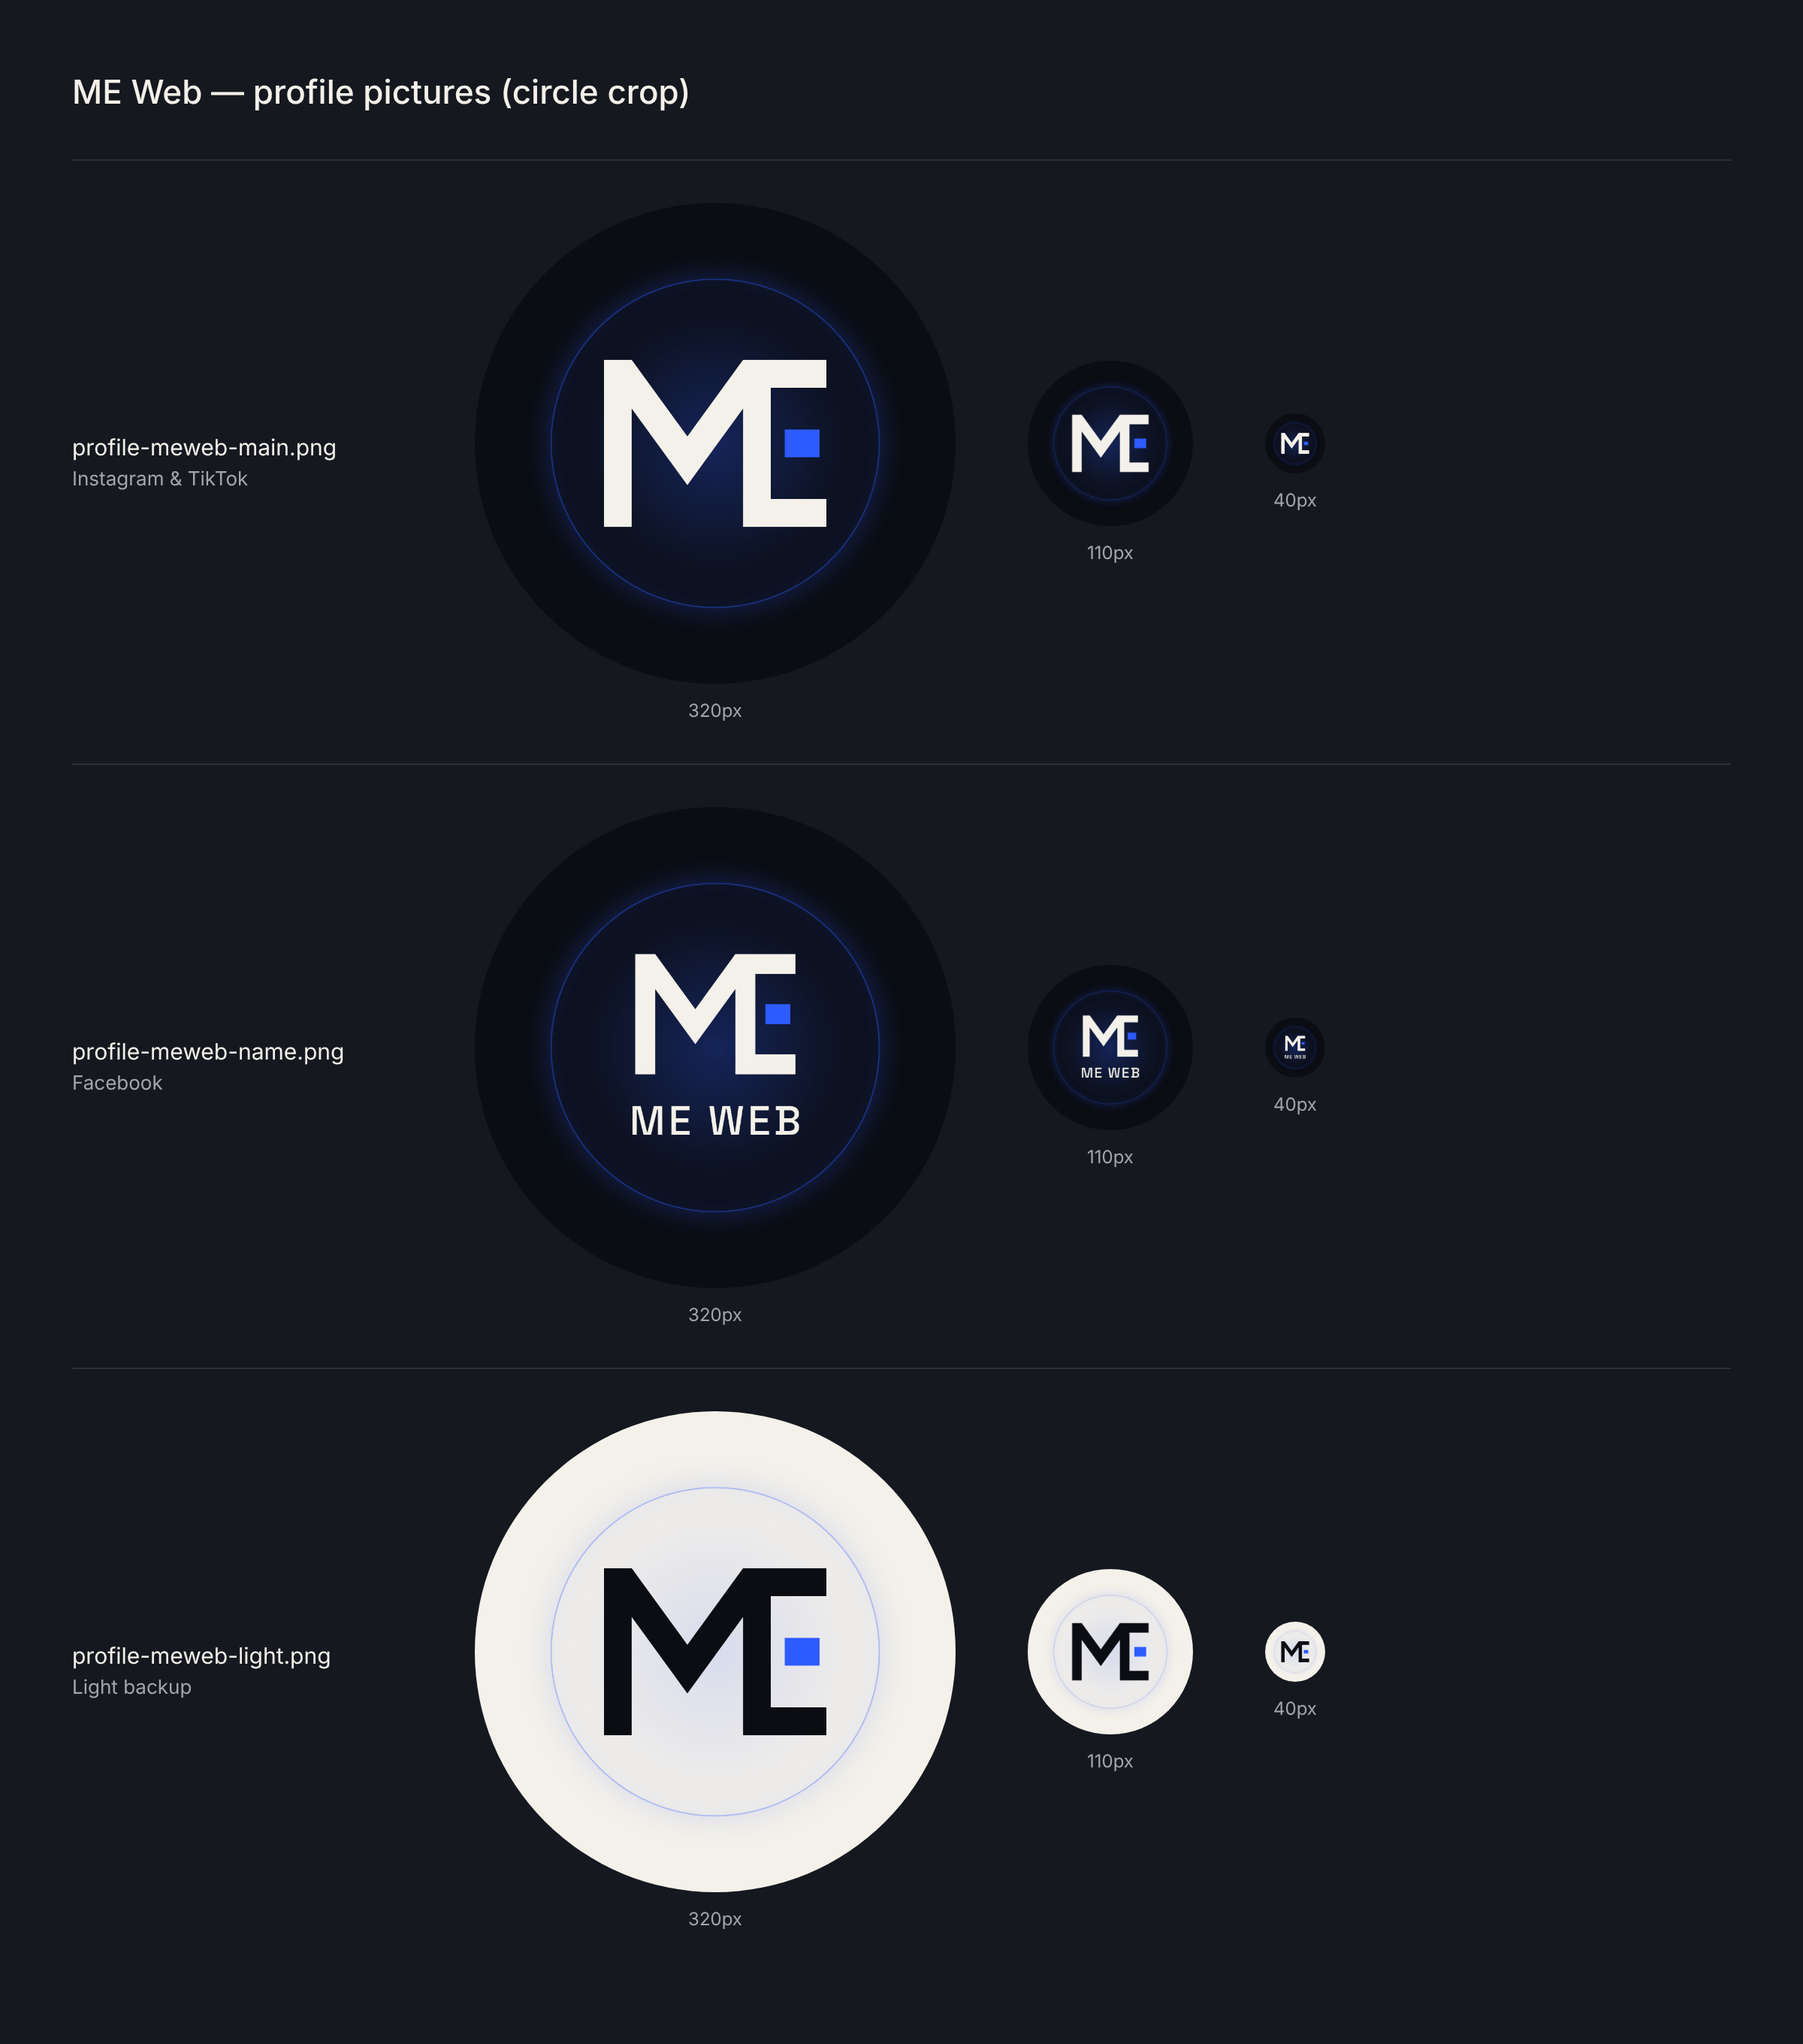
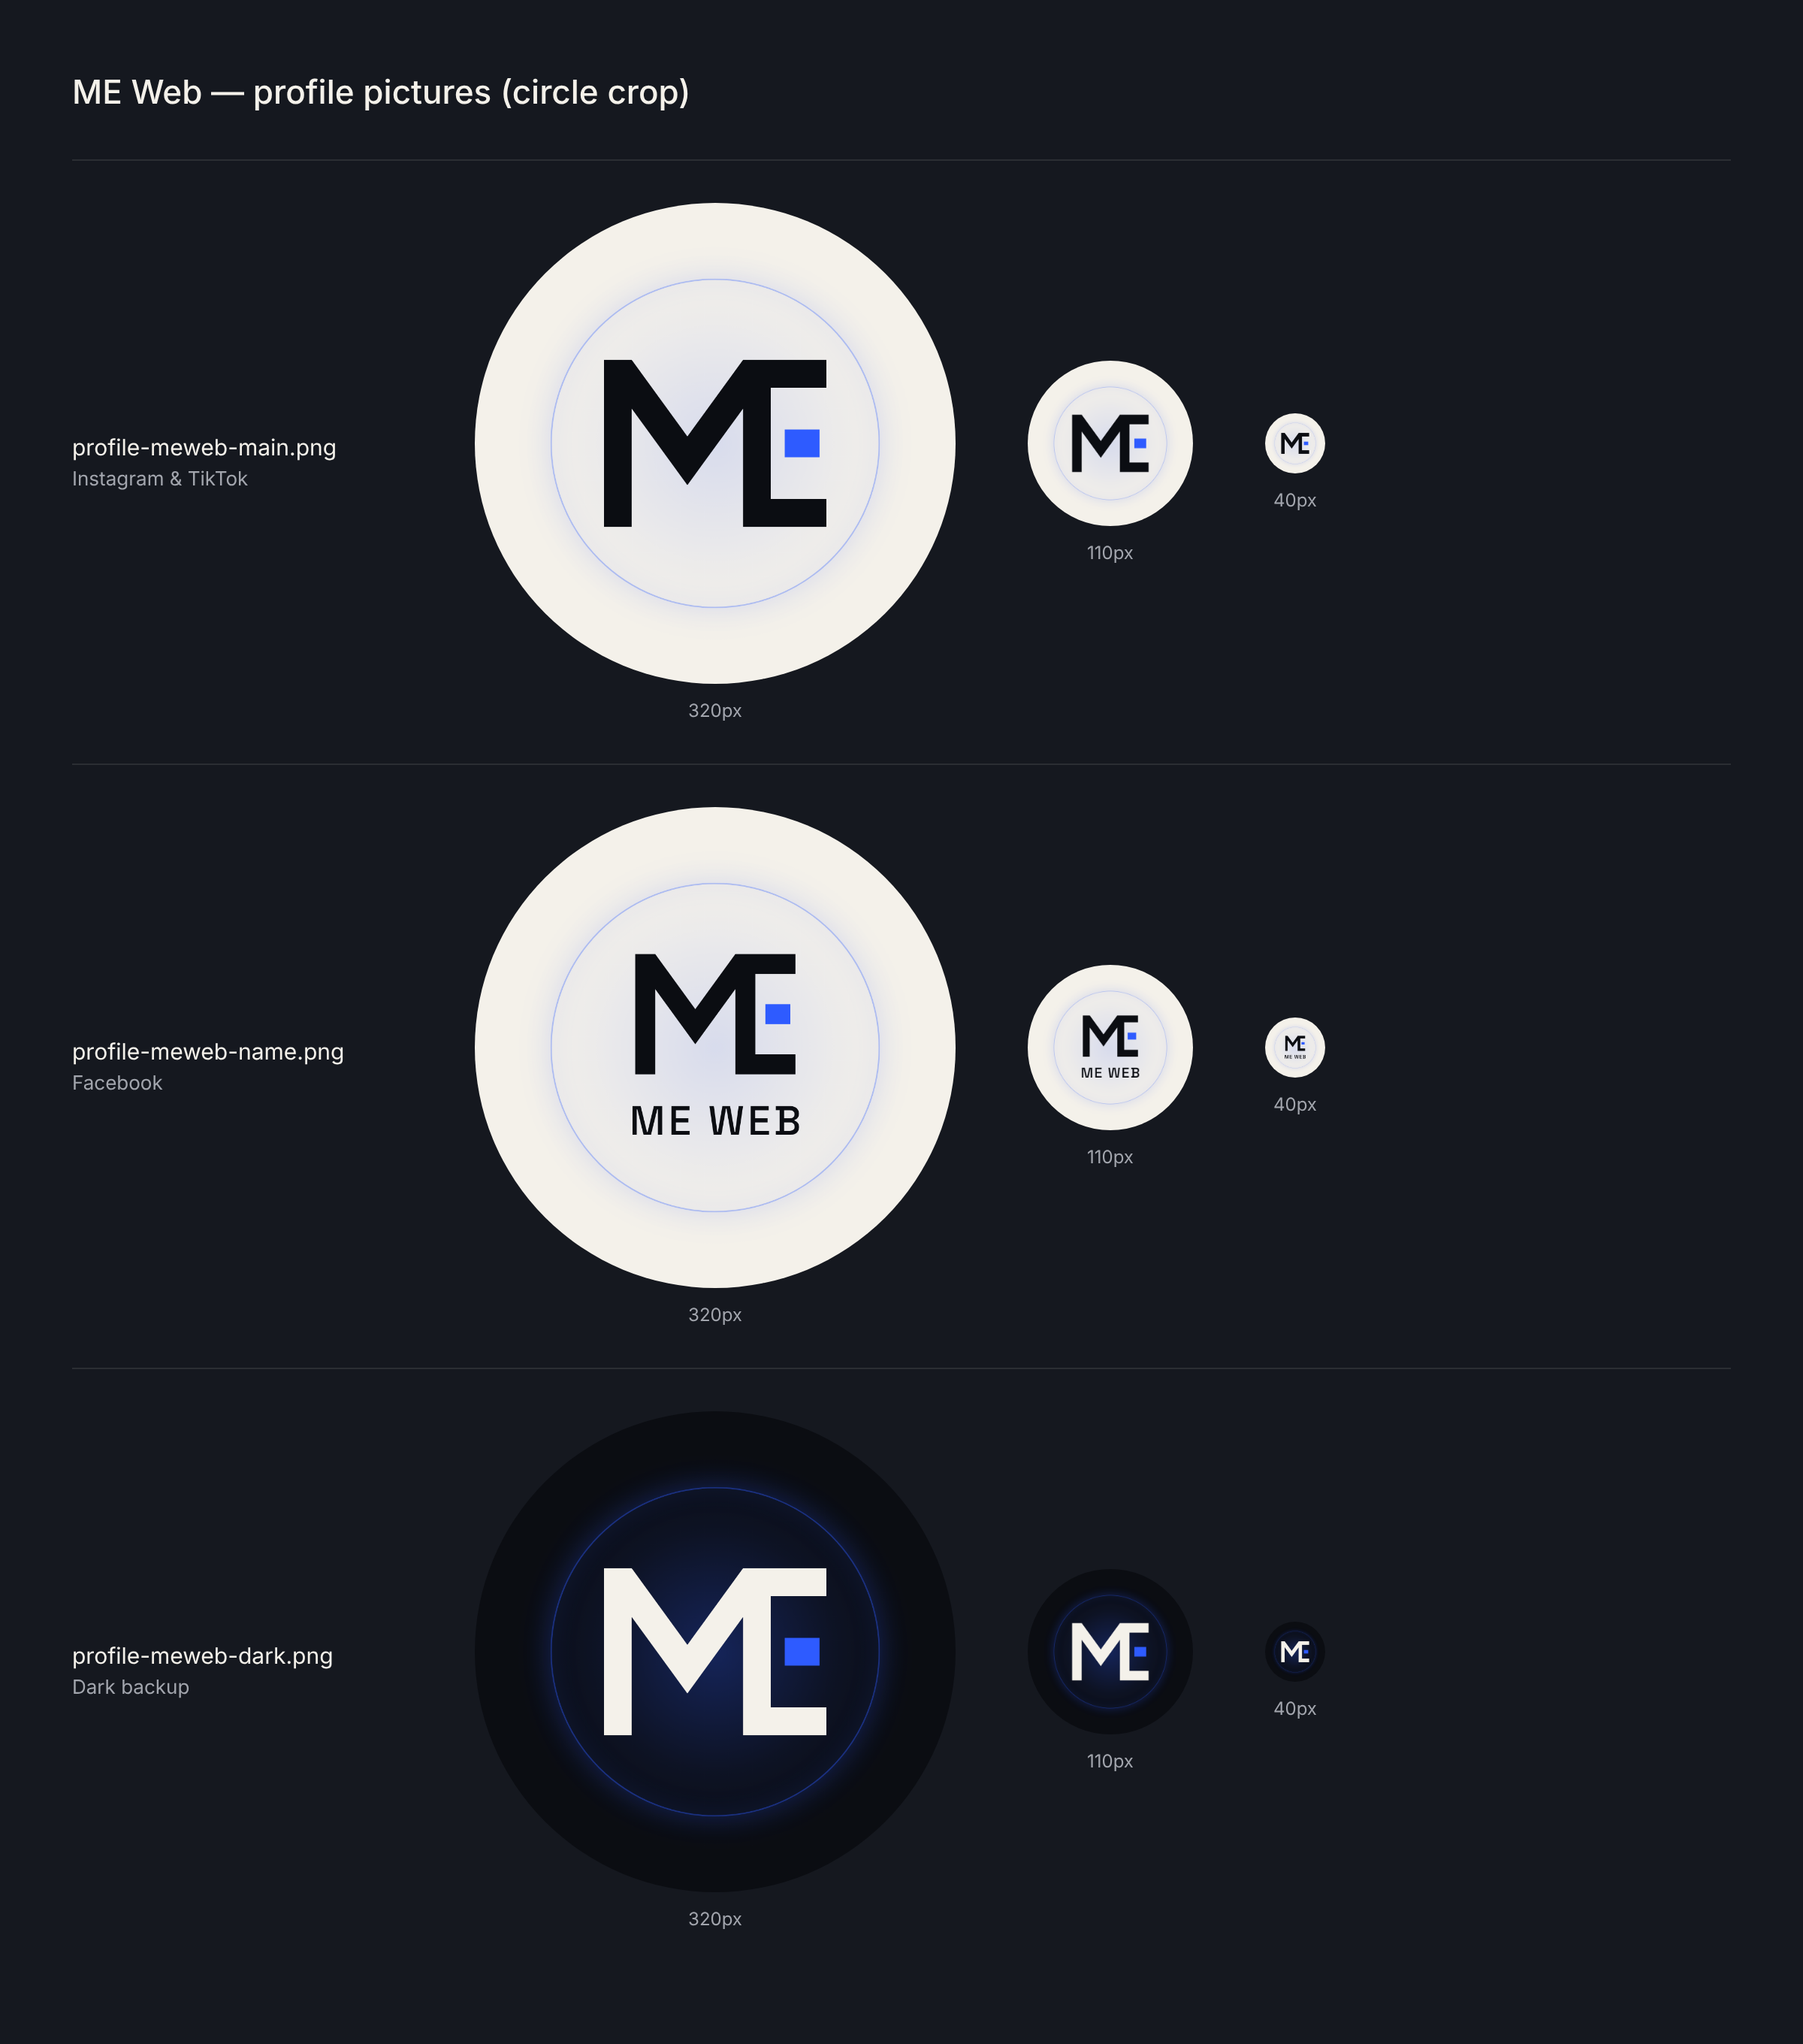
Make the Ivory profile pictures the main ME Web look
Claude-Session: https://claude.ai/code/session_011H3y8ddzUaxvKRhzJsDCke

diff --git a/brand/brand.html b/brand/brand.html
@@ -165,9 +165,9 @@
       <p class="sub">Ready-to-upload images, all in <code>brand/social/</code>. To edit them, change the HTML files in <code>brand/social/source/</code> (see the README).</p>
       <p class="sub-ar">صور جاهزة للرفع مباشرة على حساباتك — كلها في مجلد brand/social.</p>
       <div class="bk-grid g3 social" style="grid-template-columns:repeat(4,minmax(0,1fr))">
-        <div class="tile"><div class="tile__art dark" style="padding:24px"><img src="social/profile/profile-meweb-main.png" alt="Profile picture, ME mark" style="max-height:none;width:100%;max-width:220px;border-radius:50%"></div><div class="tile__meta"><span>Profile · ME mark (Instagram, TikTok)</span><a href="social/profile/profile-meweb-main.png" download>PNG ↓</a></div></div>
-        <div class="tile"><div class="tile__art dark" style="padding:24px"><img src="social/profile/profile-meweb-name.png" alt="Profile picture, ME WEB" style="max-height:none;width:100%;max-width:220px;border-radius:50%"></div><div class="tile__meta"><span>Profile · ME WEB (Facebook)</span><a href="social/profile/profile-meweb-name.png" download>PNG ↓</a></div></div>
-        <div class="tile"><div class="tile__art dark" style="padding:24px"><img src="social/profile/profile-meweb-light.png" alt="Profile picture, light" style="max-height:none;width:100%;max-width:220px;border-radius:50%"></div><div class="tile__meta"><span>Profile · light</span><a href="social/profile/profile-meweb-light.png" download>PNG ↓</a></div></div>
+        <div class="tile"><div class="tile__art light" style="padding:24px"><img src="social/profile/profile-meweb-main.png" alt="Profile picture, ME mark" style="max-height:none;width:100%;max-width:220px;border-radius:50%"></div><div class="tile__meta"><span>Profile · ME mark (Instagram, TikTok)</span><a href="social/profile/profile-meweb-main.png" download>PNG ↓</a></div></div>
+        <div class="tile"><div class="tile__art light" style="padding:24px"><img src="social/profile/profile-meweb-name.png" alt="Profile picture, ME WEB" style="max-height:none;width:100%;max-width:220px;border-radius:50%"></div><div class="tile__meta"><span>Profile · ME WEB (Facebook)</span><a href="social/profile/profile-meweb-name.png" download>PNG ↓</a></div></div>
+        <div class="tile"><div class="tile__art dark" style="padding:24px"><img src="social/profile/profile-meweb-dark.png" alt="Profile picture, dark" style="max-height:none;width:100%;max-width:220px;border-radius:50%"></div><div class="tile__meta"><span>Profile · dark</span><a href="social/profile/profile-meweb-dark.png" download>PNG ↓</a></div></div>
         <div class="tile"><div class="tile__art dark" style="padding:24px"><img src="social/profile/profile-photo.png" alt="Profile picture, photo" style="max-height:none;width:100%;max-width:220px;border-radius:50%"></div><div class="tile__meta"><span>Profile picture B · photo</span><a href="social/profile/profile-photo.png" download>PNG ↓</a></div></div>
         <div class="tile"><div class="tile__art dark" style="padding:24px"><img src="social/profile/profile-photo-natural.png" alt="Profile picture, natural photo" style="max-height:none;width:100%;max-width:220px;border-radius:50%"></div><div class="tile__meta"><span>Profile picture C · portrait mode</span><a href="social/profile/profile-photo-natural.png" download>PNG ↓</a></div></div>
         <div class="tile"><div class="tile__art dark" style="padding:24px"><img src="social/logo/png/logo-icon-512.png" alt="App icon" style="max-height:none;width:100%;max-width:180px"></div><div class="tile__meta"><span>Icon · 512 / 1024 / 2048</span><a href="social/logo/png/logo-icon-2048.png" download>PNG ↓</a></div></div>

diff --git a/brand/social/source/profile-meweb.html b/brand/social/source/profile-meweb.html
@@ -1,9 +1,9 @@
 <!doctype html>
 <html><head><meta charset="utf-8"><title>Profile picture — ME Web (1080×1080)</title>
-<!-- Three versions from one file:
-     profile-meweb.html?v=main   → mark only (Instagram, TikTok)
-     profile-meweb.html?v=name   → mark + "ME WEB" (Facebook)
-     profile-meweb.html?v=light  → mark only on Ivory -->
+<!-- Three versions from one file (Ivory is the main look):
+     profile-meweb.html?v=main   → mark only on Ivory (Instagram, TikTok)
+     profile-meweb.html?v=name   → mark + "ME WEB" on Ivory (Facebook)
+     profile-meweb.html?v=dark   → mark only on Ink (backup) -->
 <link rel="preconnect" href="https://fonts.googleapis.com"><link rel="preconnect" href="https://fonts.gstatic.com" crossorigin>
 <link rel="stylesheet" href="https://fonts.googleapis.com/css2?family=Space+Grotesk:wght@500;600&display=block">
 <link rel="stylesheet" href="social.css">
@@ -21,12 +21,16 @@
   .v-name .mark { width: 360px; }
   .v-name .name { display: block; }
 
-  .v-light, .v-light body { background: var(--ivory); }
-  .v-light .mark .fg { fill: var(--ink); }
-  .v-light .halo { background: radial-gradient(closest-side, rgba(46, 91, 255, .14), rgba(46, 91, 255, .04) 60%, transparent); }
-  .v-light .ring { border-color: rgba(46, 91, 255, .35); box-shadow: 0 0 60px rgba(46, 91, 255, .12), inset 0 0 60px rgba(46, 91, 255, .06); }
+  .light, .light body { background: var(--ivory); }
+  .light .mark .fg { fill: var(--ink); }
+  .light .name { color: var(--ink); }
+  .light .halo { background: radial-gradient(closest-side, rgba(46, 91, 255, .14), rgba(46, 91, 255, .04) 60%, transparent); }
+  .light .ring { border-color: rgba(46, 91, 255, .35); box-shadow: 0 0 60px rgba(46, 91, 255, .12), inset 0 0 60px rgba(46, 91, 255, .06); }
 </style>
-<script>document.documentElement.className = 'v-' + (new URLSearchParams(location.search).get('v') || 'main');</script>
+<script>
+  const v = new URLSearchParams(location.search).get('v') || 'main';
+  document.documentElement.className = 'v-' + v + (v === 'dark' ? '' : ' light');
+</script>
 </head>
 <body>
   <div class="halo"></div>

diff --git a/README.md b/README.md
@@ -282,9 +282,9 @@ mo-emad-portfolio/
 | `logo/logo-icon.svg` | رمز ME داخل مربع داكن بزوايا دائرية (يصلح لأي مكان) |
 | `logo/logo-mark-on-dark.svg` / `-on-light.svg` | رمز ME وحده بخلفية شفافة |
 | `logo/png/…-512.png` و `-1024` و `-2048` | نسخ PNG شفافة بثلاثة مقاسات من كل شعار |
-| `profile/profile-meweb-main.png` | صورة البروفايل الأساسية: رمز ME وحده — لإنستجرام وتيك توك (1080×1080) |
-| `profile/profile-meweb-name.png` | رمز ME وتحته ME WEB — لفيسبوك (1080×1080) |
-| `profile/profile-meweb-light.png` | نفس الأساسية على خلفية فاتحة (1080×1080) |
+| `profile/profile-meweb-main.png` | صورة البروفايل الأساسية: رمز ME وحده على خلفية فاتحة — لإنستجرام وتيك توك (1080×1080) |
+| `profile/profile-meweb-name.png` | رمز ME وتحته ME WEB على خلفية فاتحة — لفيسبوك (1080×1080) |
+| `profile/profile-meweb-dark.png` | نسخة احتياطية على خلفية داكنة (1080×1080) |
 | `profile/profile-preview-sheet.png` | معاينة الصور الثلاث مقصوصة دائرة بمقاسات 320 و 110 و 40 بكسل |
 | `profile/profile-photo.png` | صورة بروفايل بصورتك على خلفية الهوية (1080×1080) |
 | `profile/profile-photo-natural.png` | صورتك بنمط "بورتريه": خلفية الصورة الأصلية مموّهة (1080×1080) |
@@ -297,7 +297,7 @@ mo-emad-portfolio/
 - رابط موقعك في الغلاف وفي البوست مكتوب `mohammed-emad-portfolio.vercel.app` — غيّره لو غيّرت عنوان الموقع.
 - البوست بالعربي: افتح `post-template.html?lang=ar`، والخلفية الفاضية: `post-template.html?blank=1`.
 - غلاف الهايلايت: `highlight.html?icon=work` (أو `reviews` أو `services` أو `contact`).
-- صور البروفايل: `profile-meweb.html?v=main` (أو `name` أو `light`) بمقاس 1080×1080.
+- صور البروفايل: `profile-meweb.html?v=main` (أو `name` أو `dark`) بمقاس 1080×1080.
 
 **الألوان:**
 
